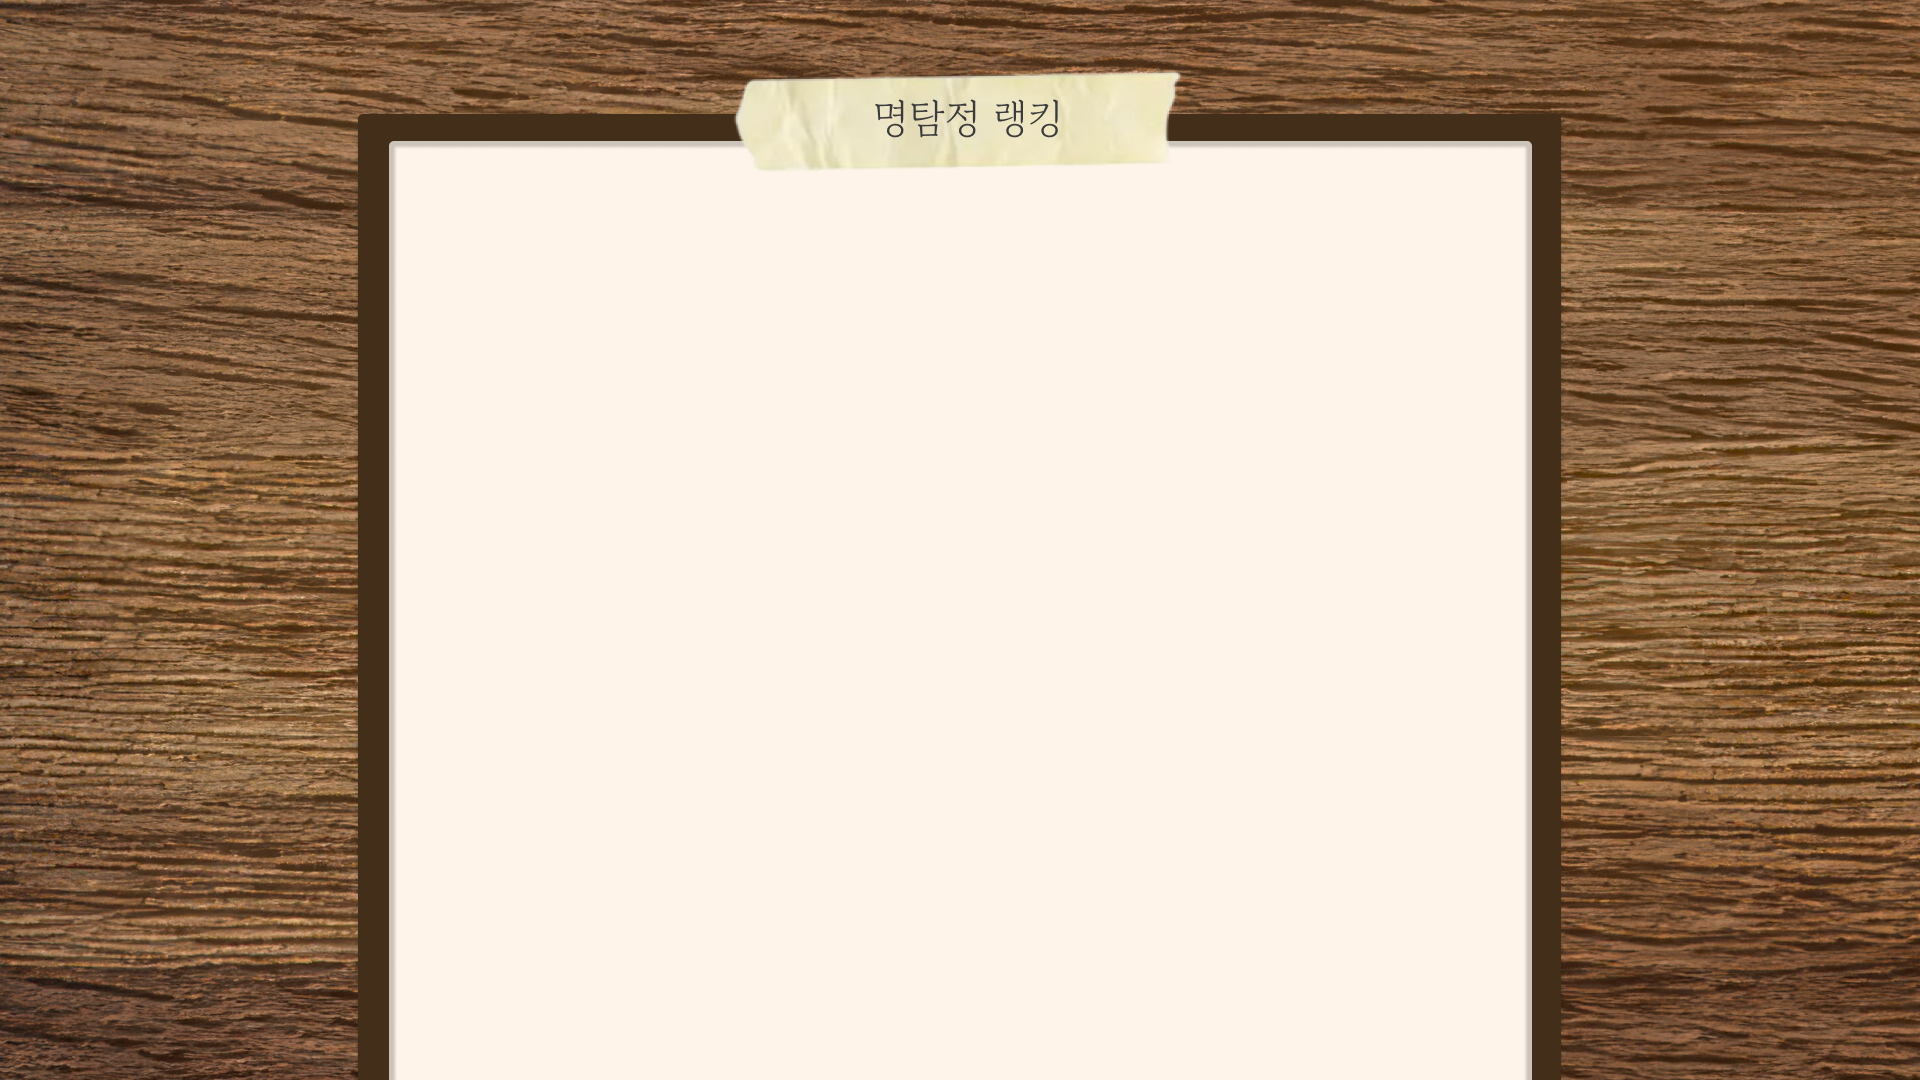
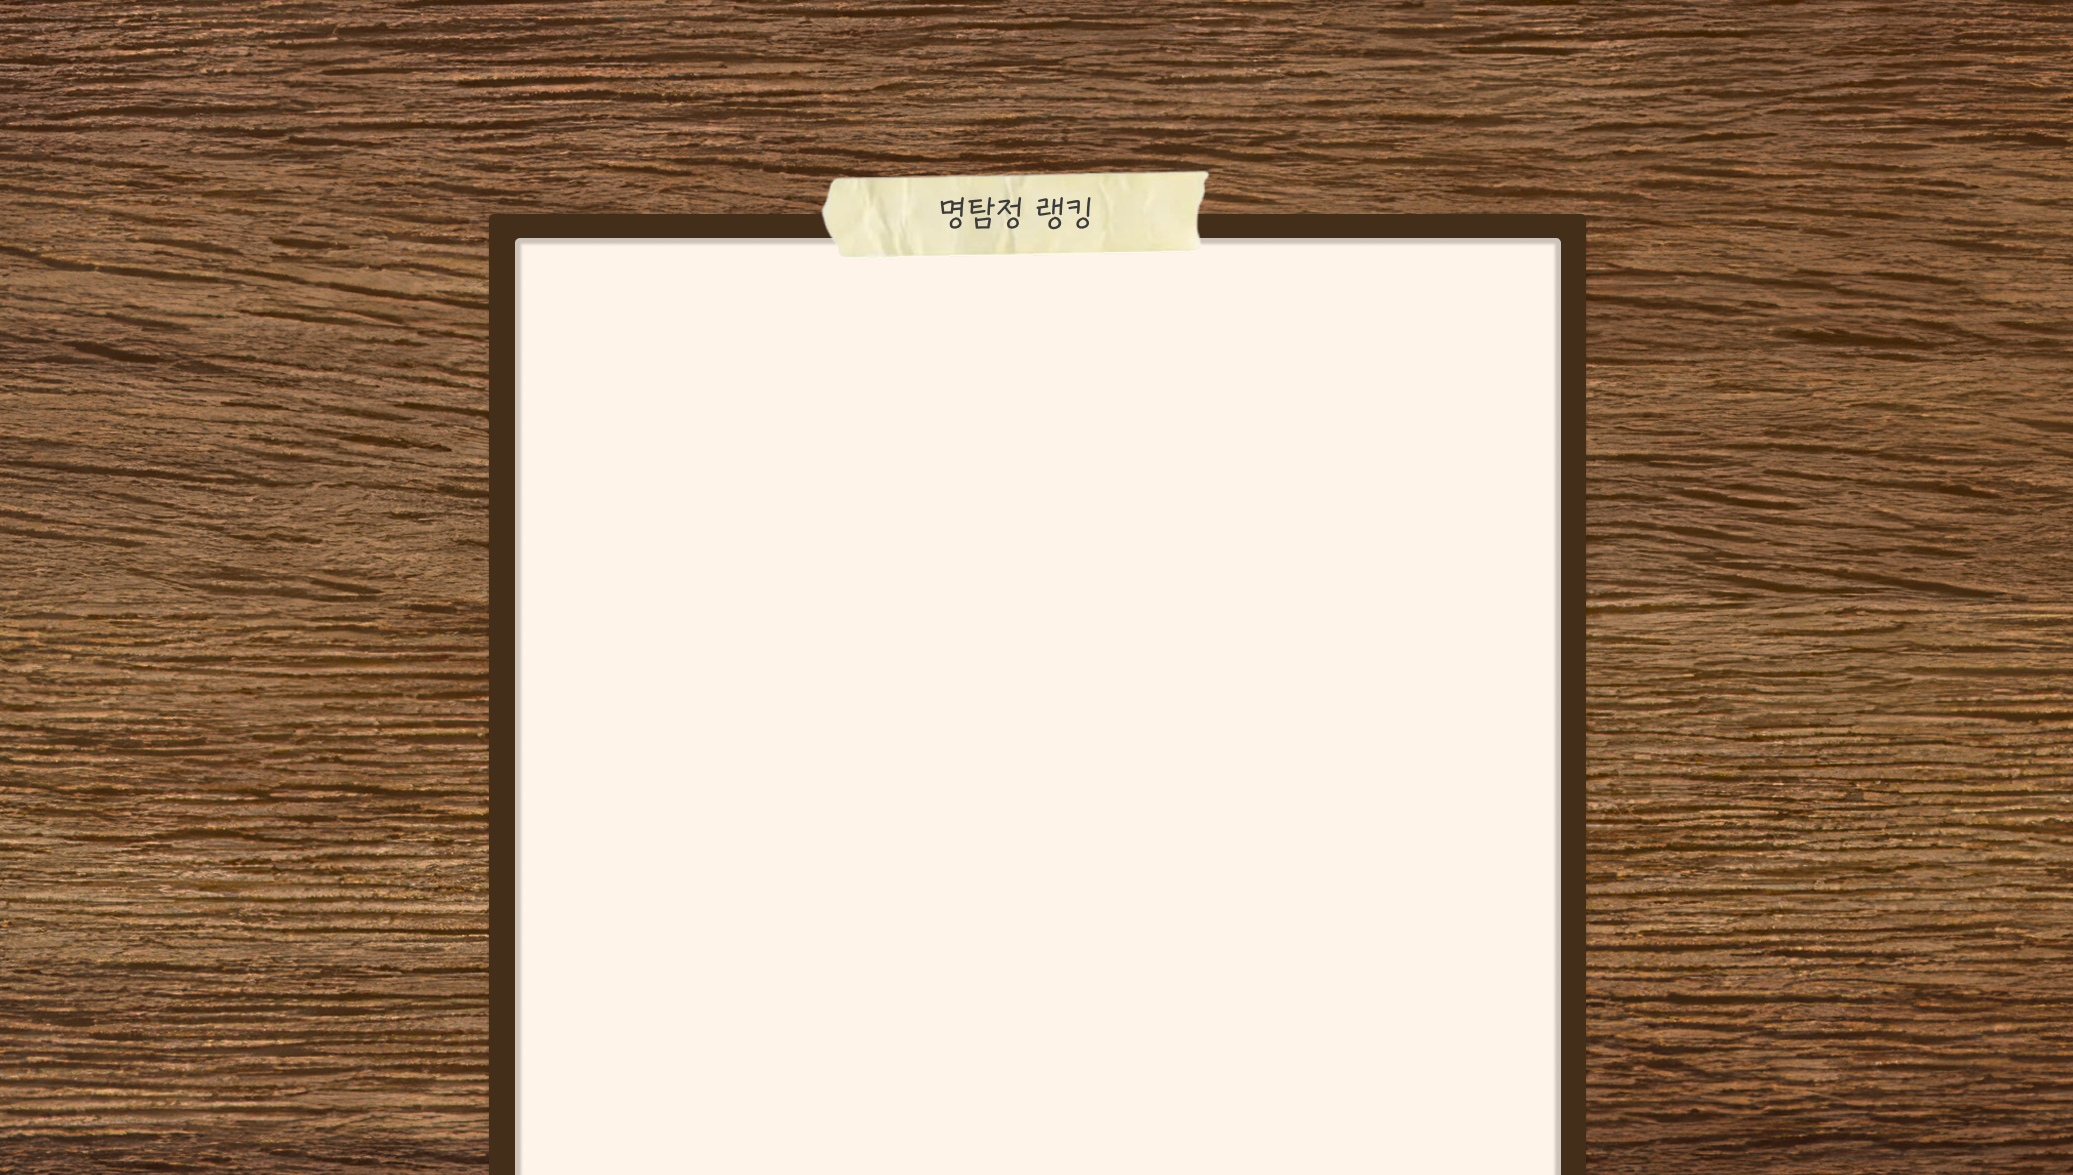
랭킹보드

diff --git a/src/styles/Ranking.css b/src/styles/Ranking.css
@@ -1,0 +1,77 @@
+.rank-badge {
+  width: 72px;
+  height: 58px;
+
+  border-radius: 12px;
+
+  display: flex;
+  justify-content: center;
+  align-items: center;
+
+  font-size: 32px;
+  font-weight: 800;
+
+  flex-shrink: 0;
+}
+
+/* 1등 */
+.gold {
+  background: #efe57a;
+  color: black;
+}
+
+/* 2등 */
+.silver {
+  background: #d8d8d8;
+  color: black;
+}
+
+/* 3등 */
+.bronze {
+  background: #d7af67;
+  color: black;
+}
+
+/* 4등 이하 */
+.default {
+  background: #ffffff;
+  color: black;
+}
+.user-info {
+  margin-left: 22px;
+  width: 100%;
+}
+
+.top-row {
+  display: flex;
+  align-items: flex-start;
+  gap: 20px;
+}
+
+.nickname {
+  font-size: 28px;
+  font-weight: 500;
+  color: #5c4637;
+
+  min-width: 190px;
+}
+
+.comment {
+  font-size: 18px;
+  line-height: 1.4;
+
+  color: #9f9187;
+
+  white-space: nowrap;
+  overflow: hidden;
+  text-overflow: ellipsis;
+}
+
+.time {
+  font-size: 16px;
+  color: #9f9187;
+
+  margin-top: 2px;
+
+  display: block;
+}

diff --git a/src/pages/Ranking/Ranking.jsx b/src/pages/Ranking/Ranking.jsx
@@ -1,16 +1,50 @@
 import bg from "../../assets/Ranking_Background.png";
+import "../../styles/Ranking.css";
 
 function Ranking() {
+  const rankingData = [
+    {
+      rank: 1,
+      name: "집가고싶다",
+      time: "03:27",
+      comment: "와 진짜 집가고싶다 ",
+    },
+    {
+      rank: 2,
+      name: "서현",
+      time: "04:12",
+      comment: "개발 어케 하는데~~~ 내가 어케 하는데~",
+    },
+  ];
+
   return (
-    <img
-      src={bg}
-      alt="배경"
+    <div
+      className="ranking-page"
       style={{
+        backgroundImage: `url(${bg})`,
         width: "100vw",
         height: "100vh",
-        objectFit: "cover",
+        backgroundSize: "cover",
+        backgroundPosition: "center",
       }}
-    />
+    >
+      <div className="ranking-list">
+        {rankingData.map((item) => (
+          <div className="ranking-card" key={item.rank}>
+            <div className="rank-badge">#{item.rank}</div>
+
+            <div className="user-info">
+              <div className="top-row">
+                <span className="nickname">{item.name}</span>
+              </div>
+
+              <span className="time">{item.time}</span>
+              <span className="comment">{item.comment}</span>
+            </div>
+          </div>
+        ))}
+      </div>
+    </div>
   );
 }
 